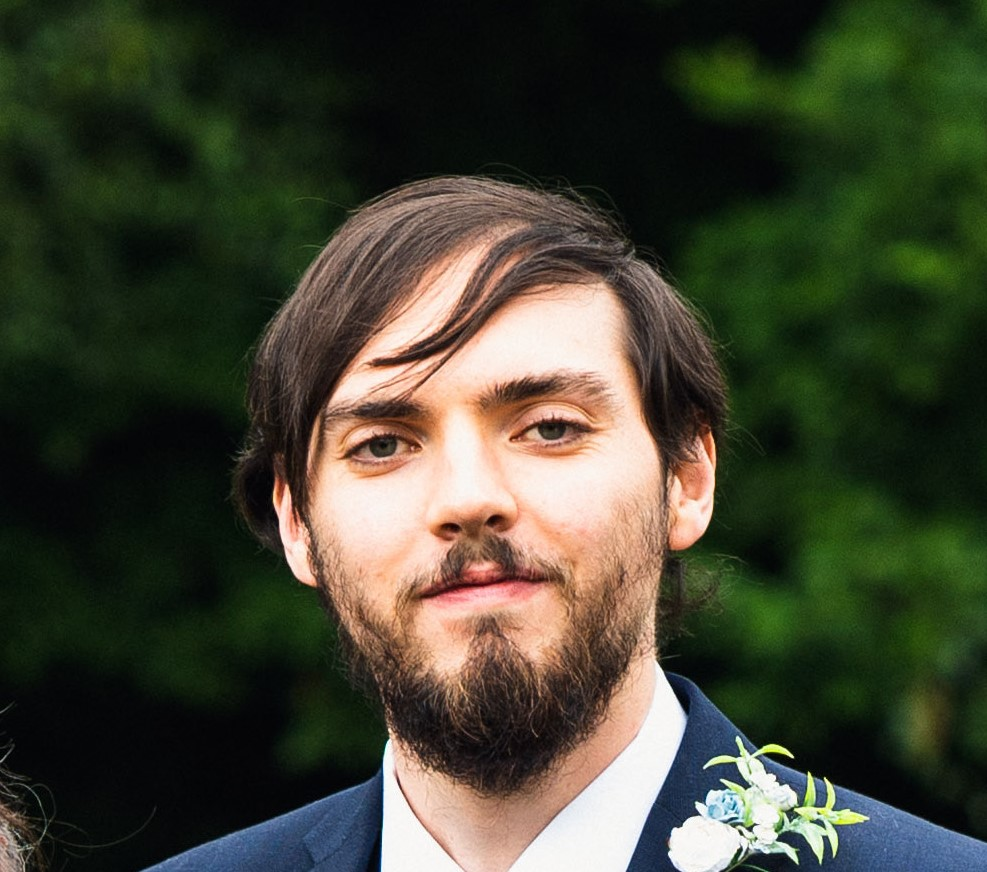
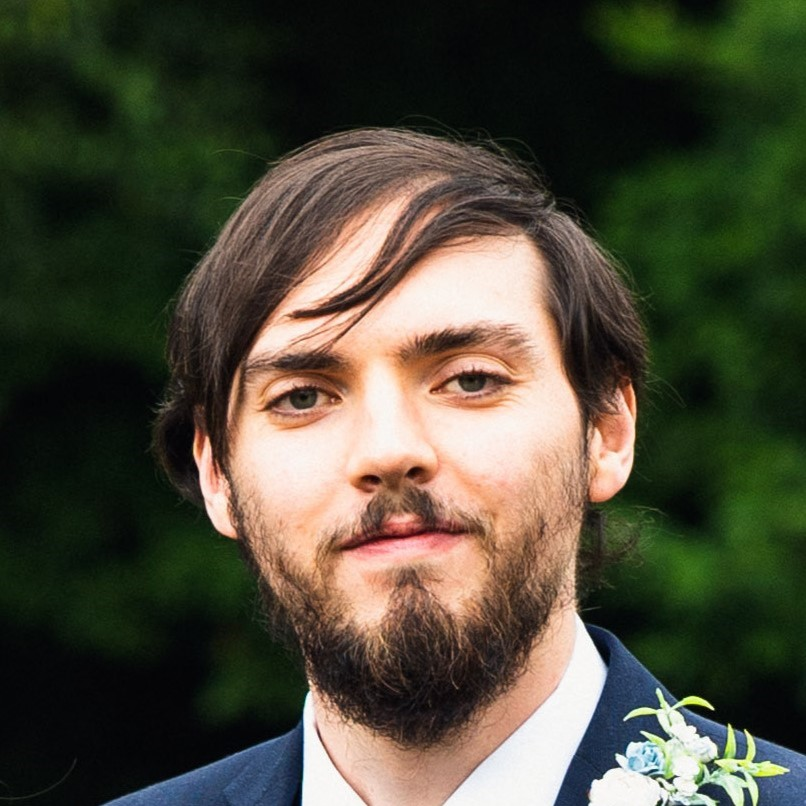
made photo square and bug fixed links

diff --git a/_includes/sidebar.html b/_includes/sidebar.html
@@ -2,15 +2,20 @@
   <div class="container sidebar-sticky">
     <div class="sidebar-about">
       <h1>
-        <a href="{{ site.baseurl }}">
-          {{ site.title }}
+        <a href="{{ site.url }}/">
+          <img src="/photo.jpg" height="auto" width="200" style="border-radius:50%" alt="Matt J Owen">
         </a>
       </h1>
+        <h2>
+          <a href="{{ site.url }}/">
+            {{ site.title }}
+          </a>
+        </h2>
       <p class="lead">{{ site.description }}</p>
     </div>
 
     <nav class="sidebar-nav">
-      <a class="sidebar-nav-item{% if page.url == site.baseurl %} active{% endif %}" href="{{ site.baseurl }}/">About</a>
+      <a class="sidebar-nav-item{% if page.url == site.baseurl %} active{% endif %}" href="{{ site.url }}/">About</a>
 
       {% comment %}
         The code below dynamically generates a sidebar nav of pages with
